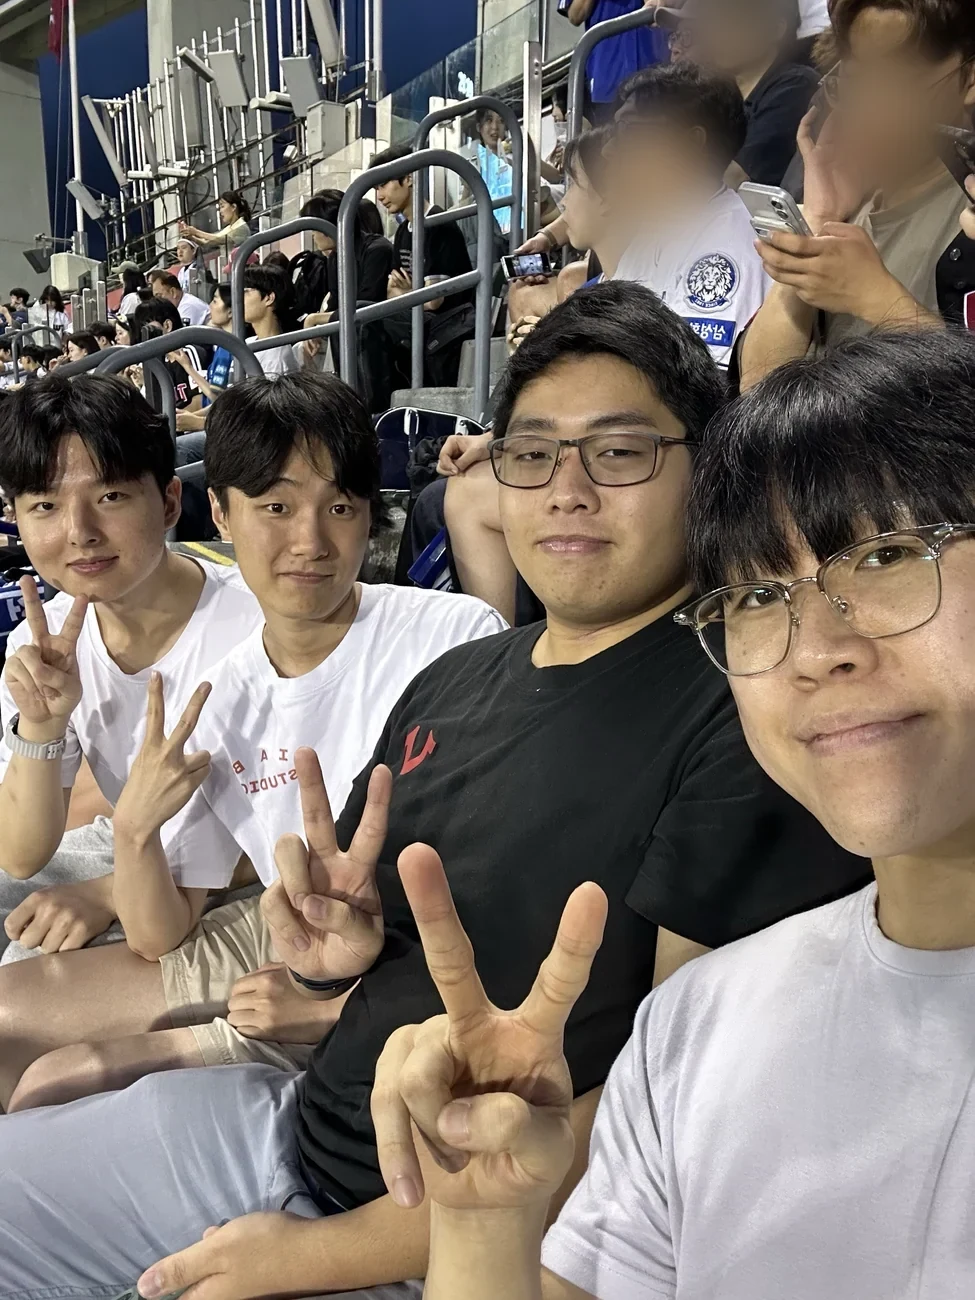
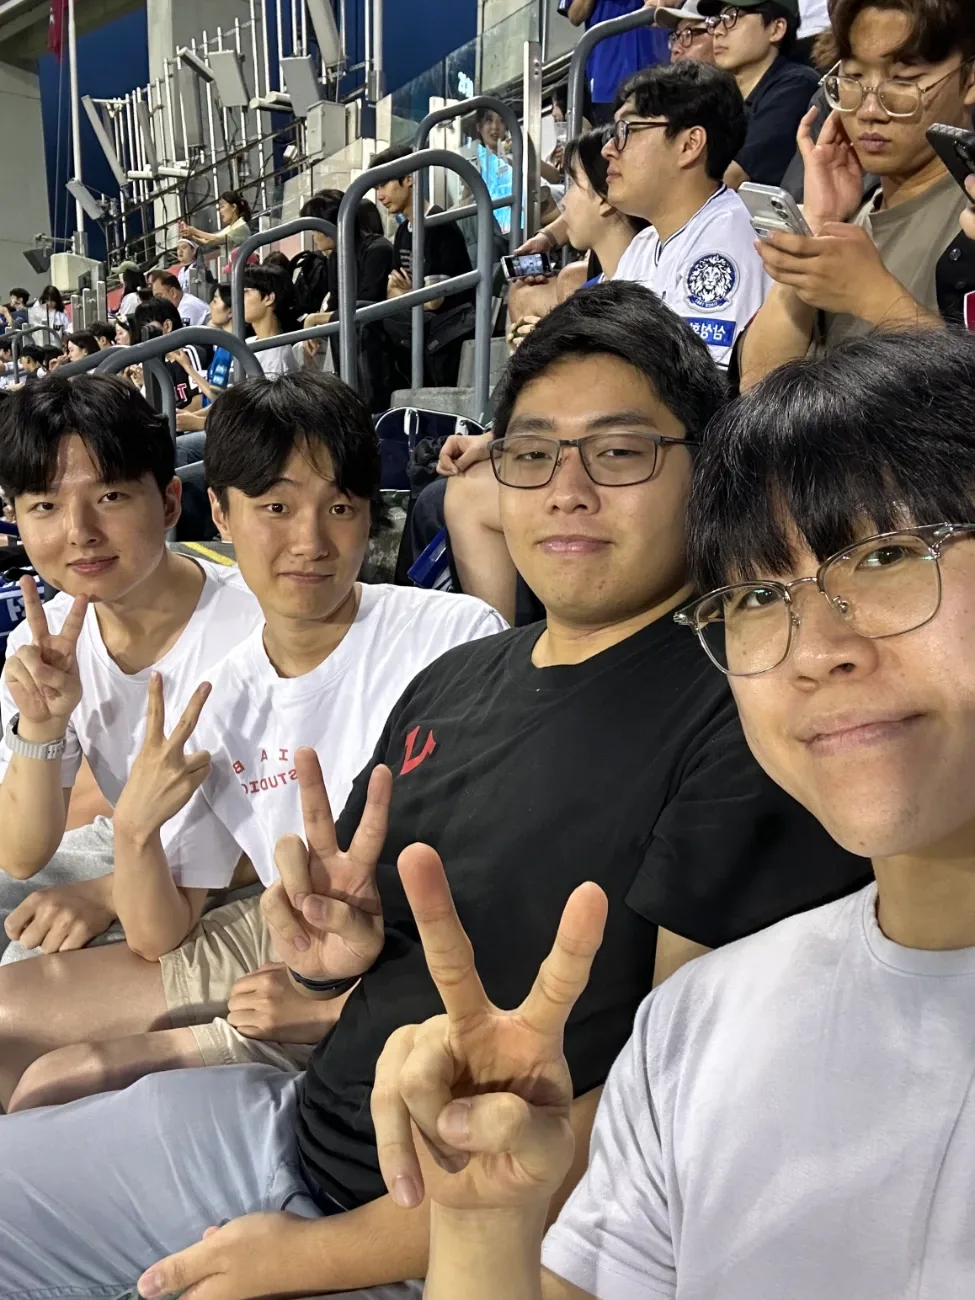
feat: 메인·로그인 화면 사진을 9월 회차 사진으로 최신화 (#163)
메인 히어로 5장(9/12 관중석 → 8/15 K리그 → 9/12 야간 단체컷 → 9/13 가이드 단체컷 → 7/26), PC 히어로 4:3 contain 통일, 로그인 폴라로이드 교체, 주변 관중 블러 제거, 5개 언어 alt·캡션 갱신.

Closes #160

Changed region(s): [[0.5846, 0.0, 1.0, 0.2769], [0.4923, 0.1231, 0.5231, 0.1846]]

diff --git a/src/app/[locale]/page.test.tsx b/src/app/[locale]/page.test.tsx
@@ -138,38 +138,50 @@ describe("LandingPage", () => {
     const heroRegion = screen.getByRole("region", { name: "Real HanBuddy moments in Seoul" });
     const heroImages = heroRegion.querySelectorAll(".hero-media-image");
 
-    expect(heroImages).toHaveLength(4);
-    expect(heroImages[0]).toHaveAttribute("src", expect.stringContaining("hanriver-picnic"));
-    expect(heroImages[1]).toHaveAttribute("src", expect.stringContaining("jamsil-stadium-0726"));
-    expect(heroImages[2]).toHaveAttribute("src", expect.stringContaining("kbo-0726-group.webp"));
-    expect(heroImages[3]).toHaveAttribute("src", expect.stringContaining("kleague-0815-crew"));
+    const heroSources = [...heroImages].map((image) => image.getAttribute("src") ?? "");
+    // 9/12 관중석 → 8/15 K리그 → 9/12 야간 단체컷 → 9/13 가이드 단체컷 → 7/26 잠실
+    expect(heroSources).toHaveLength(5);
+    expect(heroSources[0]).toContain("kbo-0912-jamsil-crowd");
+    expect(heroSources[1]).toContain("kleague-0815-crew");
+    expect(heroSources[2]).toContain("kbo-0912-group-night");
+    expect(heroSources[3]).toContain("kbo-0913-group-guide");
+    expect(heroSources[4]).toContain("kbo-0726-group.webp");
+    // 9/12 사진은 두 장까지만 쓴다
+    expect(heroSources.filter((source) => source.includes("kbo-0912"))).toHaveLength(2);
+    // 한 장당 5초, 장수에 맞춘 전체 주기를 CSS 변수로 넘긴다
+    const firstFrame = heroRegion.querySelector(".hero-media-frame");
+    expect(firstFrame?.getAttribute("style")).toContain("--hero-media-duration: 25s");
     expect(heroImages[0]).toHaveAttribute("loading", "eager");
     expect(heroImages[1]).toHaveAttribute("loading", "lazy");
+    // 스포츠 전용 전환 뒤 한강 사진은 관광객 화면에서 쓰지 않는다
+    expect(heroRegion.innerHTML).not.toContain("hanriver");
     // AI로 좌우를 늘린 셀카와 4MB 원본 jpeg는 더 이상 쓰지 않는다
     expect(heroRegion.innerHTML).not.toContain("group-wide");
     expect(heroRegion.innerHTML).not.toContain("2%EC%B0%A8-4");
   });
 
-  it("blurs a backdrop behind close-up photos on desktop and keeps landscapes full-bleed", async () => {
+  it("places every hero photo on a blurred backdrop at the same 4:3 size on desktop", async () => {
     await renderLanding("en");
 
     const heroRegion = screen.getByRole("region", { name: "Real HanBuddy moments in Seoul" });
     const frames = heroRegion.querySelectorAll(".hero-media-frame");
     const backdrops = heroRegion.querySelectorAll(".hero-media-backdrop");
 
-    expect(backdrops).toHaveLength(2);
-    expect(frames[2]?.querySelector(".hero-media-backdrop")).toHaveClass("hidden", "md:block");
-    expect(frames[2]?.querySelector(".hero-media-image")).toHaveClass(
-      "hero-media-contain",
-      "md:object-contain",
-    );
-    expect(frames[0]?.querySelector(".hero-media-image")).not.toHaveClass("md:object-contain");
+    // 풀블리드 cover는 셀피 얼굴이 화면을 채우고 사진마다 크기가 달라져 4장 모두 contain으로 통일했다
+    expect(backdrops).toHaveLength(5);
+    frames.forEach((frame) => {
+      expect(frame.querySelector(".hero-media-backdrop")).toHaveClass("hidden", "md:block");
+      expect(frame.querySelector(".hero-media-image")).toHaveClass(
+        "hero-media-contain",
+        "md:object-contain",
+      );
+    });
     // 초점은 CSS 변수로 넘겨 md 이상의 contain 프레임에서는 스타일시트가 정중앙으로 되돌린다
-    expect(frames[2]?.querySelector(".hero-media-image")?.getAttribute("style")).toContain(
-      "--hero-media-position: 85% 50%",
+    expect(frames[1]?.querySelector(".hero-media-image")?.getAttribute("style")).toContain(
+      "--hero-media-position: 32% 50%",
     );
-    expect(frames[2]?.querySelector(".hero-media-image")).not.toHaveStyle({
-      objectPosition: "85% 50%",
+    expect(frames[1]?.querySelector(".hero-media-image")).not.toHaveStyle({
+      objectPosition: "32% 50%",
     });
     // PC 히어로는 화면 전체가 아니라 72vh(560~760px)로 낮춰 원본 사진이 위아래를 꽉 채운다
     expect(heroRegion).toHaveClass("md:min-h-[clamp(560px,72svh,760px)]");

diff --git a/src/app/[locale]/(app)/login/page.tsx b/src/app/[locale]/(app)/login/page.tsx
@@ -136,11 +136,11 @@ export default async function LoginPage({ params, searchParams }: LoginPageProps
             <span className="login-polaroid-tape" aria-hidden="true" />
             <span className="login-polaroid-frame">
               <Image
-                src="/images/landing/1차-1.webp"
+                src="/images/landing/kbo-0913-bear-ears.webp"
                 alt={t("visualRightAlt")}
                 fill
                 sizes="(min-width: 1440px) 232px, (min-width: 1024px) 176px, 45vw"
-                className="object-cover object-[50%_30%]"
+                className="object-cover object-[50%_32%]"
               />
             </span>
             <figcaption>{t("visualRightCaption")}</figcaption>
@@ -150,11 +150,11 @@ export default async function LoginPage({ params, searchParams }: LoginPageProps
             <span className="login-polaroid-tape" aria-hidden="true" />
             <span className="login-polaroid-frame">
               <Image
-                src="/images/landing/hanriver-fountain.webp"
+                src="/images/landing/kbo-0912-mascot-crew.webp"
                 alt={t("visualBottomLeftAlt")}
                 fill
                 sizes="(min-width: 1440px) 232px, (min-width: 1024px) 176px, 45vw"
-                className="object-cover"
+                className="object-cover object-[50%_68%]"
               />
             </span>
             <figcaption>{t("visualBottomLeftCaption")}</figcaption>
@@ -164,11 +164,11 @@ export default async function LoginPage({ params, searchParams }: LoginPageProps
             <span className="login-polaroid-tape" aria-hidden="true" />
             <span className="login-polaroid-frame">
               <Image
-                src="/images/landing/hanriver-food.webp"
+                src="/images/landing/kbo-0905-dome-seats.webp"
                 alt={t("visualBottomRightAlt")}
                 fill
                 sizes="(min-width: 1440px) 232px, (min-width: 1024px) 176px, 45vw"
-                className="object-cover object-[50%_55%]"
+                className="object-cover object-[55%_50%]"
               />
             </span>
             <figcaption>{t("visualBottomRightCaption")}</figcaption>

diff --git a/src/app/[locale]/page.tsx b/src/app/[locale]/page.tsx
@@ -13,30 +13,41 @@ import { AUTH_COOKIES } from "@/lib/auth/cookies";
 import { parseUserType } from "@/lib/auth/routes";
 
 const HERO_MEDIA = [
-  // position: 모바일 사진 띠(가로 크롭)에서 사람이 보이도록 잡는 가로 초점. cover 사진은 PC 세로 크롭에도 쓰인다.
+  // 순서: 9/12 관중석 → 8/15 K리그 → 9/12 야간 단체컷 → 9/13 가이드 동행 단체컷 → 7/26 잠실
+  // (유현님 확정 2026-09-29: 앉아서 찍은 9/12 관중석이 1번, 9/12는 두 장, 9/13은 가이드님 단체컷 한 장).
+  // 장수를 바꾸면 globals.css의 hero-media-cycle 키프레임 비율도 같이 바꿔야 한다(5장 기준).
+  // PC(md 이상)는 모두 4:3 원본을 흐린 배경 위에 같은 크기로 놓는다(contain). 풀블리드 cover는
+  // 셀피의 얼굴이 화면을 가득 채워 부담스럽고, 사진마다 박스 크기가 달라지는 문제가 있었다.
+  // position은 모바일 사진 띠(가로 크롭)에서 사람이 보이도록 잡는 초점이다.
   {
-    src: "/images/landing/hanriver-picnic.webp",
-    altKey: "visuals.mainAlt",
-    fit: "cover",
-    position: "50% 72%",
-  },
-  {
-    src: "/images/landing/jamsil-stadium-0726.webp",
-    altKey: "visuals.marketAlt",
-    fit: "cover",
-    position: "50% 55%",
-  },
-  {
-    src: "/images/landing/kbo-0726-group.webp",
-    altKey: "visuals.teaAlt",
+    src: "/images/landing/kbo-0912-jamsil-crowd.webp",
+    altKey: "visuals.jamsilAlt",
     fit: "contain",
-    position: "85% 50%",
+    position: "50% 40%",
   },
   {
     src: "/images/landing/kleague-0815-crew.webp",
     altKey: "visuals.kleagueAlt",
     fit: "contain",
     position: "32% 50%",
+  },
+  {
+    src: "/images/landing/kbo-0912-group-night.webp",
+    altKey: "visuals.jamsilGroupAlt",
+    fit: "contain",
+    position: "50% 50%",
+  },
+  {
+    src: "/images/landing/kbo-0913-group-guide.webp",
+    altKey: "visuals.jamsilSundayGuideAlt",
+    fit: "contain",
+    position: "45% 50%",
+  },
+  {
+    src: "/images/landing/kbo-0726-group.webp",
+    altKey: "visuals.kbo0726Alt",
+    fit: "contain",
+    position: "85% 50%",
   },
 ] as const;
 

diff --git a/src/app/globals.css b/src/app/globals.css
@@ -301,12 +301,14 @@ button:not(:disabled),
   animation-delay: 260ms;
 }
 
+/* 히어로 사진 5장 기준: 한 장이 주기의 1/5(5초)을 쓰고, 그중 4초 보인 뒤 1초 동안 사라진다.
+   장수를 바꾸면 16%(=80/N)와 20%(=100/N)를 함께 바꾼다. */
 @keyframes hero-media-cycle {
   0%,
-  20% {
+  16% {
     opacity: 1;
   }
-  25%,
+  20%,
   100% {
     opacity: 0;
   }
@@ -323,7 +325,7 @@ button:not(:disabled),
 }
 
 .hero-media-frame {
-  animation: hero-media-cycle 20s linear infinite;
+  animation: hero-media-cycle var(--hero-media-duration, 25s) linear infinite;
   animation-delay: var(--hero-media-delay);
   opacity: 0;
 }
@@ -333,7 +335,7 @@ button:not(:disabled),
 }
 
 .hero-media-image {
-  animation: hero-media-zoom 20s ease-in-out infinite;
+  animation: hero-media-zoom var(--hero-media-duration, 25s) ease-in-out infinite;
   animation-delay: var(--hero-media-delay);
   /* 사진별 초점. 모바일 띠(가로 크롭)와 cover 사진의 PC 세로 크롭에 쓰인다 */
   object-position: var(--hero-media-position, center);

diff --git a/src/app/[locale]/(app)/login/page.test.tsx b/src/app/[locale]/(app)/login/page.test.tsx
@@ -125,7 +125,16 @@ describe("LoginPage", () => {
         }),
       ).toHaveAttribute("href", `/${locale}/policies/terms-of-service`);
       expect(screen.getByText(visualCaption)).toBeInTheDocument();
-      expect(screen.getAllByRole("figure")).toHaveLength(4);
+      const figures = screen.getAllByRole("figure");
+      expect(figures).toHaveLength(4);
+      // 9월 회차 사진이 한강 사진 자리를 대신한다
+      const figureSources = figures.map((figure) =>
+        figure.querySelector("img")?.getAttribute("src"),
+      );
+      expect(figureSources[1]).toContain("kbo-0913-bear-ears");
+      expect(figureSources[2]).toContain("kbo-0912-mascot-crew");
+      expect(figureSources[3]).toContain("kbo-0905-dome-seats");
+      expect(figureSources.join(" ")).not.toContain("hanriver");
       const googleLoginLink = screen.getByRole("link", { name: action });
       expect(googleLoginLink).toHaveAttribute("href", `/api/auth/google/start?locale=${locale}`);
       expect(googleLoginLink).toHaveAttribute("data-prefetch", "false");

diff --git a/src/app/globals.test.ts b/src/app/globals.test.ts
@@ -78,6 +78,17 @@ describe("global korean line breaking", () => {
 });
 
 describe("landing hero media styles", () => {
+  it("times the hero slideshow for five photos at five seconds each", () => {
+    const cycle = stylesheet.match(/@keyframes hero-media-cycle\s*\{([\s\S]*?)\n\}/)?.[1] ?? "";
+
+    // 5장 × 5초 = 25초 주기. 한 장은 4초(16%) 보이고 5초(20%)에 완전히 사라진다
+    expect(cycle).toMatch(/0%,\s*16%\s*\{\s*opacity: 1/);
+    expect(cycle).toMatch(/20%,\s*100%\s*\{\s*opacity: 0/);
+    expect(stylesheet).toMatch(
+      /\.hero-media-frame\s*\{[^}]*hero-media-cycle var\(--hero-media-duration, 25s\)/,
+    );
+  });
+
   it("feathers contained hero photos into the blurred backdrop from md up", () => {
     const block = stylesheet.match(
       /@media \(min-width: 768px\)\s*\{\s*\.hero-media-contain\s*\{([^}]*)\}/,

diff --git a/src/components/landing/LandingHeroMedia.tsx b/src/components/landing/LandingHeroMedia.tsx
@@ -15,6 +15,8 @@ interface HeroMediaItem {
   readonly position?: string;
 }
 
+const SLIDE_SECONDS = 5;
+
 interface LandingHeroMediaProps {
   readonly images: readonly HeroMediaItem[];
 }
@@ -30,8 +32,10 @@ export function LandingHeroMedia({ images }: LandingHeroMediaProps) {
       className="hero-media relative h-[400px] w-full overflow-hidden md:absolute md:inset-0 md:h-auto"
     >
       {images.map((image, index) => {
+        // 한 장당 5초. 전체 주기는 장수에 비례한다 (키프레임 비율은 globals.css 참고)
         const style = {
-          "--hero-media-delay": `${index * 5}s`,
+          "--hero-media-delay": `${index * SLIDE_SECONDS}s`,
+          "--hero-media-duration": `${images.length * SLIDE_SECONDS}s`,
         } as CSSProperties;
         const isContain = image.fit === "contain";
 

diff --git a/docs/superpowers/specs/2026-09-26-mvp-trust-refresh-design.md b/docs/superpowers/specs/2026-09-26-mvp-trust-refresh-design.md
@@ -1,0 +1,110 @@
+# MVP 신뢰 신호 최신화 설계 (2026-09-26)
+
+9/14 MVP 전환 뒤 신청 0건인 상황에서, 방문자가 예약 전에 보는 신뢰 신호(실제 회차 사진·팀 소개)를
+최신화하고, 첫 예약 시도가 온보딩에서 끊기는 구현 마찰을 없앤다. PR 3개로 나누어 진행한다.
+
+| PR  | 브랜치                            | 이슈 |
+| --- | --------------------------------- | ---- |
+| 1   | `feat/#160-september-photos`      | #160 |
+| 2   | `feat/#161-about-page`            | #161 |
+| 3   | `fix/#162-onboarding-return-path` | #162 |
+
+## 공통 원칙
+
+- 2026-09-04 결정: HanBuddy는 **스포츠 전용**(KBO 잠실·고척, K리그·국가대표). 한강 피크닉·음식 소재는 관광객 화면에서 뺀다.
+- 사진은 `hanbuddy-assets/cardnews/*/photos/`에서 EXIF 제거·초상 동의가 확인된 WebP만 쓴다. 티켓 QR·좌석번호가 보이는 컷, 버디 단독컷은 쓰지 않는다.
+- 5개 로케일(en/ko/ja/zh-Hans/zh-Hant) 키 계약은 `messages.test.ts`가 강제한다. 새 키는 5개 파일에 동시에 추가한다.
+- 버디 측 화면(`/buddy` 랜딩, 버디 온보딩)은 범위 밖이며 동작을 바꾸지 않는다.
+
+## PR 1. 9월 회차 사진 최신화
+
+> 2026-09-29 개정: 실제 화면을 본 유현님 피드백으로 아래가 최종안이다. 처음 안(9/5 고척 cover 1번, 4장)은 폐기했다.
+
+### 메인 히어로 (`src/app/[locale]/page.tsx` `HERO_MEDIA`)
+
+| 순서 | 사진                                             | fit     | position |
+| ---- | ------------------------------------------------ | ------- | -------- |
+| 0    | `kbo-0912-jamsil-crowd` (9/12 하늘색 관중석)     | contain | 50% 40%  |
+| 1    | `kleague-0815-crew` (8/15 K리그)                 | contain | 32% 50%  |
+| 2    | `kbo-0912-group-night` (9/12 야간 단체컷)        | contain | 50% 50%  |
+| 3    | `kbo-0913-group-guide` (9/13 가이드 동행 단체컷) | contain | 45% 50%  |
+| 4    | `kbo-0726-group` (7/26 잠실)                     | contain | 85% 50%  |
+
+- PC(md 이상)는 5장 모두 4:3 원본을 흐린 배경 위에 같은 크기로 놓는다(contain). 풀블리드 cover는 셀피 얼굴이 화면을 채워 부담스럽고 사진마다 크기가 달라져 쓰지 않는다. 세로 원본은 4:3으로 잘라 넣는다.
+- 모바일 사진 띠는 cover이며 `position`으로 얼굴 초점을 잡는다.
+- 9/12 사진은 두 장까지, 9/13은 가이드님이 나온 단체컷 한 장만 쓴다. 9/13 단체컷은 카드뉴스에서 승인된 보정본(확대 + 세로 그라데이션 밝기)을 4:3으로 크롭했다.
+- 슬라이드는 한 장당 5초다. 전체 주기는 `--hero-media-duration`(장수 × 5초)으로 넘기고, `globals.css`의 `hero-media-cycle` 키프레임 비율(80/N, 100/N)은 장수에 맞춰 함께 바꾼다.
+- alt 키: `jamsilAlt`·`kleagueAlt`·`jamsilGroupAlt`·`jamsilSundayGuideAlt`·`kbo0726Alt`.
+
+### 로그인 폴라로이드 (`src/app/[locale]/(app)/login/page.tsx`)
+
+| 위치 | 사진                                     | 캡션(en)                |
+| ---- | ---------------------------------------- | ----------------------- |
+| 1    | `kbo-0726-group`                         | new friends, Jul 26 ⚾  |
+| 2    | `kbo-0913-bear-ears` (9/13 곰 귀 머리띠) | bear ears on, Sep 13 ⚾ |
+| 3    | `kbo-0912-mascot-crew` (마스코트 단체컷) | mascot crew, Sep 12 ⚾  |
+| 4    | `kbo-0905-dome-seats` (돔 좌석 간식)     | dome snacks, Sep 5 ⚾   |
+
+- 캡션은 폴라로이드 폭(모바일 약 170px)에서 잘리지 않는 길이로 쓴다.
+
+### 자산
+
+- `public/images/landing/`에 cwebp q82~86, 긴 변 1600px 이하로 추가한다. `hanriver-fountain`·`hanriver-food`·`jamsil-stadium-0726`은 삭제했다. `hanriver-picnic`은 `/buddy`가 쓰므로 남긴다.
+- 주변 관중 블러는 넣지 않는다(유현님 결정 2026-09-29). 6월·7/26·8/15 사진은 드라이브 원본에서 다시 파생했다.
+
+### 테스트
+
+- `page.test.tsx`: 히어로 5장 src 순서, 9/12 두 장 제한, 전체 주기 변수, 5장 모두 contain, `hanriver` 부재.
+- `globals.test.ts`: 5장 기준 키프레임 비율과 주기 변수.
+- `login/page.test.tsx`: 폴라로이드 2~4번 src와 `hanriver` 부재.
+
+## PR 2. About 페이지
+
+### 라우트·내비
+
+- `src/app/[locale]/(app)/about/page.tsx` 공개 페이지. `(app)` 레이아웃의 전역 `SiteHeader`·`SiteFooter`를 쓴다. `generateMetadata`는 `/login`과 같은 canonical·hreflang 패턴.
+- `SiteHeader` 비로그인·관광객 내비와 `MobileMenu`에 About 항목 추가, `SiteFooter` 정책 링크 옆에 About 링크 추가. 버디 내비는 바꾸지 않는다.
+- `src/lib/legacy-landing.ts`: `/about` → `/about`(로케일 붙임), `/privacy` → `/policies/privacy-policy`. 테스트 갱신.
+
+### 콘텐츠 (`About` 네임스페이스, 5개 로케일)
+
+옛 랜딩 `hanbuddy-landing/about/index.html`의 뼈대를 따르되 문구는 현재 정책으로 새로 쓴다.
+
+1. 히어로: "like a local"을 실제로 만드는 팀. 서울의 경기장 문화를 로컬 버디와 함께. CTA 2개(활동 둘러보기 `/explore`, 팀 소개로 스크롤).
+2. 시작 계기: 잠실 야간 경기 티켓이 한국 전화번호·한국 카드가 없으면 살 수 없던 경험. HanBuddy가 티켓·좌석·응원까지 대신 풀어준다.
+3. 운영 방식 3단계: ① 우리가 직접 회차를 기획한다(야구·축구 한 경기에 집중) ② 신청 즉시 티켓을 사고 사람이 확인 메시지를 보낸다(티켓+구장 음식 포함) ③ 회차마다 설문을 받아 다음 회차에 반영한다.
+4. 실적: 2026년 6~~9월 실제 운영 7회, 설문 만족도 평균(설문 응답 기준, 값은 구현 시 `soma-memory` 설문 시트에서 확인해 상수로 둔다), 후기 인용 1~~2개(공개 승인분).
+5. 회차 연혁: 6월·7월·8월·9월 카드 4장, 카드마다 그 회차 사진 1장(6월 첫 회차, 7/26, 8/15, 9/5 고척). 상단 콜라주는 9/12 응원 수건, 9/12 마스코트, 9/13 가이드 동행 좌석컷.
+6. 팀: ZeroOne 3인(김민형·김유현·이준영) 역할과 LinkedIn, 소마 17기 공식 프로젝트 문구.
+7. CTA: 활동 둘러보기.
+
+### 테스트
+
+- `about/page.test.tsx`: 5개 로케일 렌더, 제목·CTA href, 팀 3인 노출.
+- `SiteHeader`·`SiteFooter` 테스트에 About 링크 추가. `legacy-landing.test.ts`에 `/about`·`/privacy` 매핑 추가.
+
+## PR 3. 온보딩 후 예약 복귀
+
+### 현재 동작
+
+- `/login?next=…` → 구글 시작이 `hanbuddy_oauth_return_to` 쿠키 저장 → 콜백.
+- 기존 회원(ACTIVE): 쿠키를 읽어 복귀. 정상.
+- 신규 회원: `createOnboardingRedirect`가 `/onboarding`으로 보내면서 복귀 경로를 넘기지 않고, 콜백 응답이 쿠키를 삭제한다. `OnboardingForm`은 완료 후 무조건 `/`.
+- 오류: `redirectToLoginWithError`가 `/login?error=…`로 보내며 `next`를 붙이지 않는다.
+
+### 변경
+
+- 콜백 온보딩 리다이렉트: 검증된 `returnTo`가 있으면 `/onboarding?next=<returnTo>`로 보낸다. 버디 온보딩(`/buddy/onboarding`)에는 붙이지 않는다.
+- `onboarding/page.tsx`가 `searchParams.next`를 `sanitizeReturnToPath`로 검증해 `OnboardingForm`에 `returnTo` prop으로 넘긴다. 폼은 관광객 ACTIVE 완료 시 `returnTo ?? "/"`로 이동한다. 버디 분기는 그대로.
+- 오류 리다이렉트: 쿠키의 `returnTo`가 있으면 `/login?error=…&next=<returnTo>`. 로그인 페이지는 이미 `next`를 구글 시작 링크에 넣으므로 재시도가 목적지를 유지한다.
+- 쿠키 삭제 타이밍은 바꾸지 않는다(쿼리로 전달하므로 콜백에서 지워도 된다).
+
+### 테스트
+
+- `callback/route.test.ts`: 신규 관광객 + returnTo 쿠키 → `/onboarding?next=…`; 버디 intent → next 없음; 오류 + returnTo → `/login?error=…&next=…`.
+- `onboarding/page.test.tsx`·`OnboardingForm.test.tsx`: `next` 검증·전달, 완료 후 `router.replace(returnTo)`; 외부 URL은 무시하고 `/`.
+
+## 검증
+
+각 PR마다 `npm run format:check && npm run lint && npm run typecheck && npm test && npm run build` 통과 후,
+390/768/1024/1440px에서 영어·한국어를 브라우저로 확인한다. 병합은 `develop`에 squash, 운영 배포는 별도 승인.
